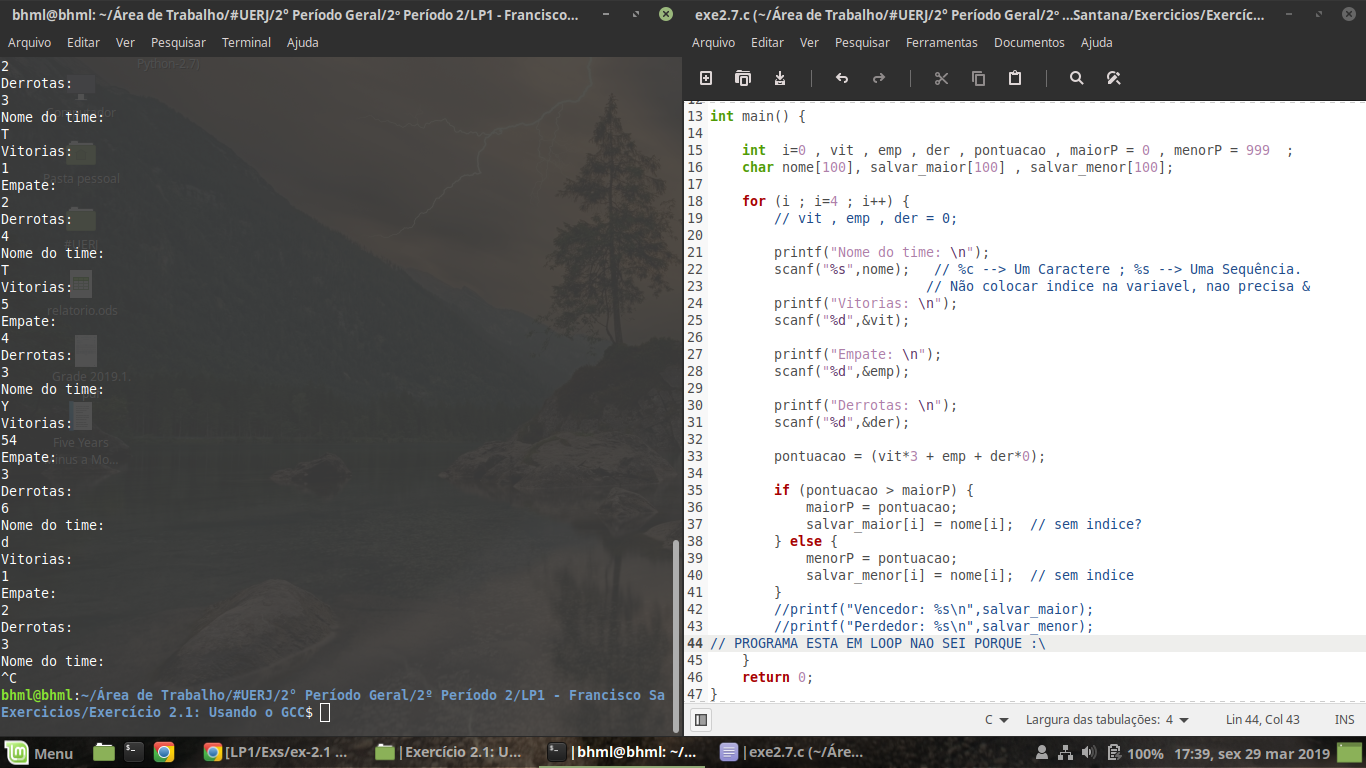
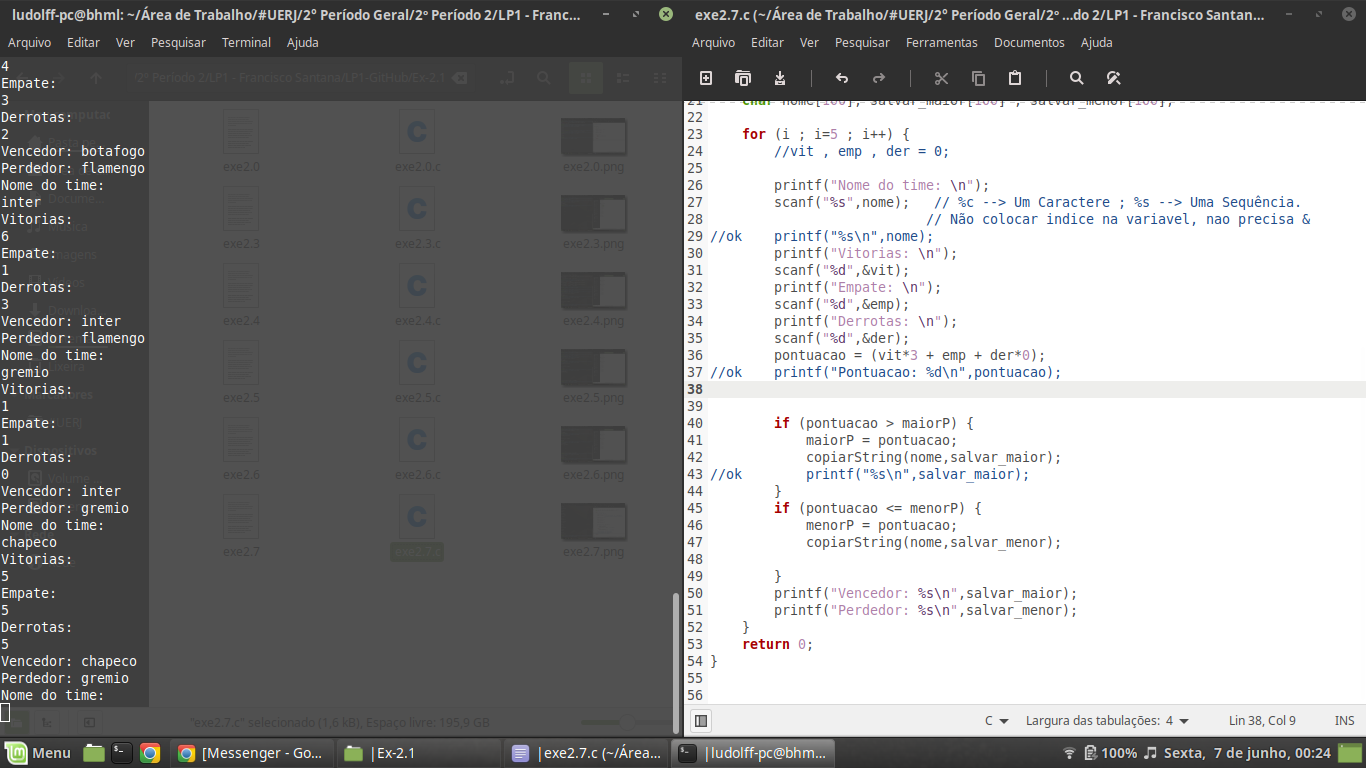
Concluido

diff --git a/Ex-2.1/exe2.7.c b/Ex-2.1/exe2.7.c
@@ -1,66 +1,57 @@
 #include <stdio.h>
 #include <string.h>
 
-// Exercicio #2.7 
-
 /* 
 O Campeonato Brasileiro está na reta final com 20 times na disputa.
-
 Uma vitória vale 3 pontos, um empate vale 1 ponto e uma derrota vale 0 pontos. Escreva um programa que, para cada time, leia o nome, número de vitórias, número de empates e número de derrotas.
-
 Ao final, o programa deve escrever o nome dos times com mais e menos pontos até o momento.*/
 
-int main() {
+void copiarString(char *copiarDaqui, char *colarAqui){
+	while (*copiarDaqui != '\0') {
+		*colarAqui = *copiarDaqui;
+		++copiarDaqui;
+		++colarAqui;
+	}
+	*colarAqui = '\0';
+}
 
-    int  i=0 , vit , emp , der , pontuacao , maiorP = 0 , menorP = 999  ;
+int main(void) {
+    int  i=0, vit=0, emp=0, der=0, pontuacao=0, maiorP=0, menorP=9999;
     char nome[100], salvar_maior[100] , salvar_menor[100];
 
-    for (i ; i=4 ; i++) {
-		// vit , emp , der = 0; 
+    for (i=0 ; i<21 ; i++) {
+		//vit , emp , der = 0; 
 
         printf("Nome do time: \n");
         scanf("%s",nome);   // %c --> Um Caractere ; %s --> Uma Sequência.
 						   // Não colocar indice na variavel, nao precisa &
+//ok	printf("%s\n",nome);
         printf("Vitorias: \n");
         scanf("%d",&vit);
 
         printf("Empate: \n");
         scanf("%d",&emp);
 
-        printf("Derrotas: \n");
+		printf("Derrotas: \n");
         scanf("%d",&der);
-		
+
 		pontuacao = (vit*3 + emp + der*0);
+//ok	printf("Pontuacao: %d\n",pontuacao);		
 
 		if (pontuacao > maiorP) {
 			maiorP = pontuacao;	
-			salvar_maior[i] = nome[i];  // sem indice?	
-		} else {
-			menorP = pontuacao;
-			salvar_menor[i] = nome[i];  // sem indice
+			copiarString(nome,salvar_maior);
+//ok		printf("%s\n",salvar_maior);
 		}
-		//printf("Vencedor: %s\n",salvar_maior);
-		//printf("Perdedor: %s\n",salvar_menor);		
-// PROGRAMA ESTA EM LOOP NAO SEI PORQUE :\ 
+		if (pontuacao <= menorP) {
+			menorP = pontuacao;
+			copiarString(nome,salvar_menor);
+		}
+		printf("Vencedor: %s\n",salvar_maior);
+		printf("Perdedor: %s\n",salvar_menor);	
+
+//		printf("valor de i: %d\n",i);	
     }
 	return 0;
 }
-
-
-
-
-
-
-
-
-
-
-
-
-
-
-
-
-
-
 
